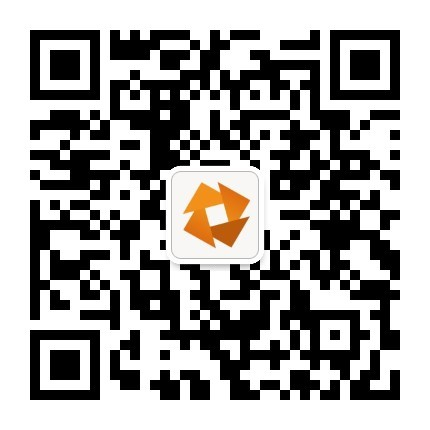
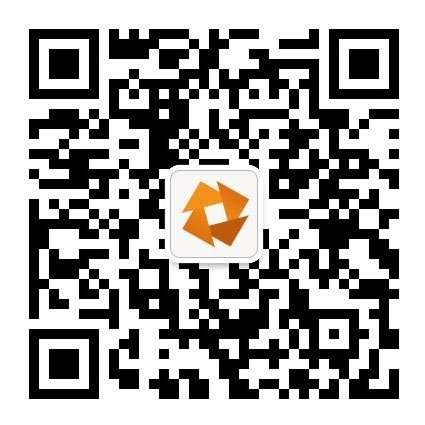
Ajust kefu.jpg

diff --git a/index.html b/index.html
@@ -364,7 +364,7 @@
                 <span class="mbw">勾搭客服号</span>
                 <span class="mbw">小风车</span>
                 <p></p>
-                <p><img src="img/qrcode.jpg" alt="windmill-education.com" height="150"></p>
+                <p><img src="img/kefu.jpg" alt="windmill-education.com" height="150"></p>
               </li>
             </ul>
           </div>
